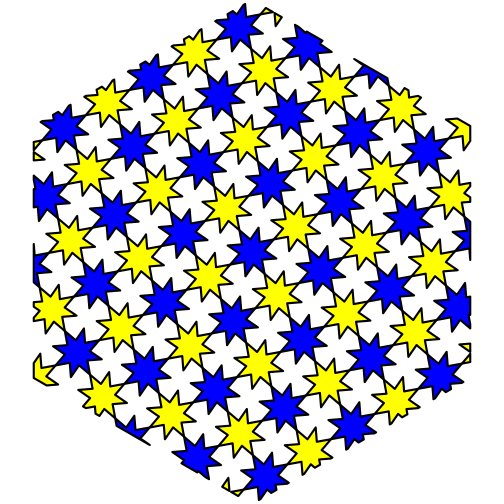
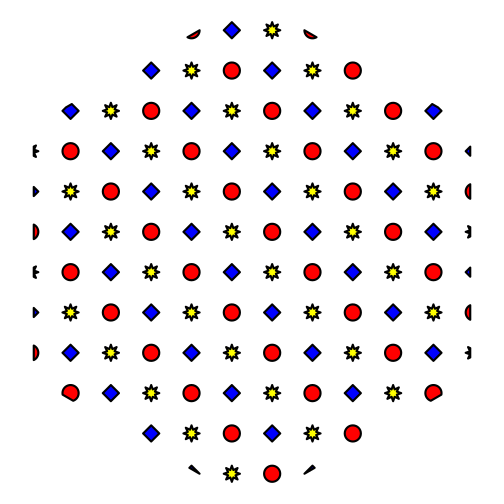
feat: Vectorize 'shape' for 'regular_polygon'
progress on #28

diff --git a/README.md b/README.md
@@ -108,8 +108,10 @@ grid.pattern("plasma", x_hex, y_hex, fill="green")
 ![](man/figures/README-plasma-1.png)
 
 ```r
-grid.pattern_regular_polygon(x_hex, y_hex, colour = "black", fill = c("blue", "yellow"),
-                             density = 1.0, spacing = 0.1, shape = "star8")
+grid.pattern_regular_polygon(x_hex, y_hex, colour = "black", 
+                             fill = c("blue", "yellow", "red"), 
+                             shape = c("convex4", "star8", "circle"),
+                             density = 0.4, spacing = 0.08, angle = 0)
 ```
 
 ![](man/figures/README-regular_star-1.png)
